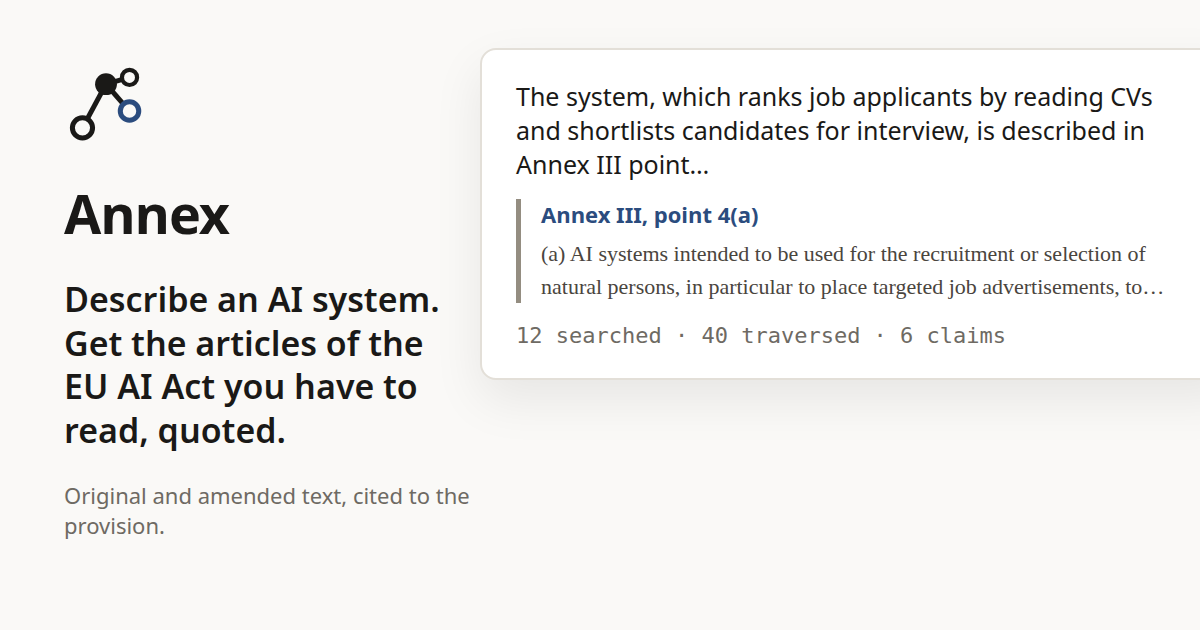
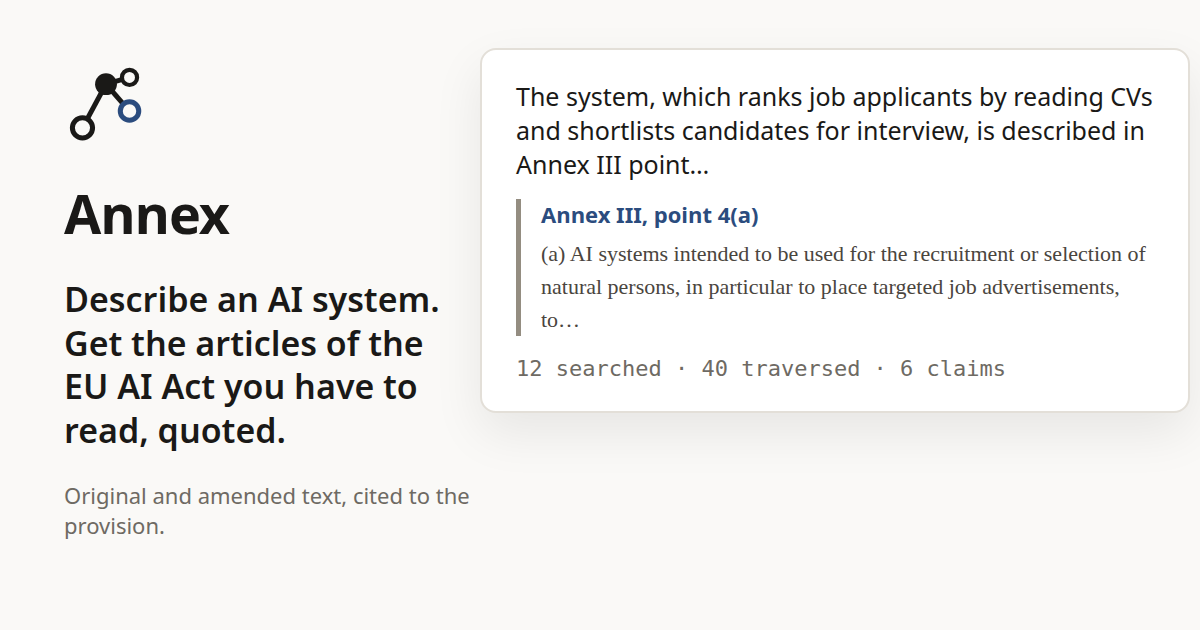
fix(web): narrow arm 3's panel so it fits the card canvas
armThreeHtml laid its right-cell panel out at 760px inside a 470px
plus 1fr grid with 10px of left padding, putting the panel's right
edge at 1240 on the 1200px canvas. The border, box shadow, and
excerpt text clipped against the frame rather than ending at their
own ellipsis. Narrowing the panel to 710px keeps it inside the canvas
with margin to spare. og-image-alt.png is regenerated from the fix;
og-image.png (arm 1) is untouched.

Claude-Session: https://claude.ai/code/session_01PapR95HCLj5TC1vMzaRMzV

diff --git a/web/scripts/generate-social-card.ts b/web/scripts/generate-social-card.ts
@@ -169,7 +169,7 @@ function armThreeHtml(
   const excerptHtml = escapeHtml(cutAtWordBoundary(excerpt, 150))
   const counts = `${fixture.retrieval.searched_ids.length} searched · ${fixture.retrieval.traversed_ids.length} traversed · ${fixture.claims.length} claims`
 
-  return `<style>${BASE_STYLE}</style><div class="card" style="display:grid;grid-template-columns:470px 1fr"><div style="padding:64px 0 0 64px;display:flex;flex-direction:column;gap:28px">${mark(84)}<div style="font-size:54px;font-weight:700;letter-spacing:-.02em">Annex</div><div style="font-size:34px;line-height:1.28;font-weight:600">Describe an AI system. Get the articles of the EU AI Act you have to read, quoted.</div><div style="font-size:22px;color:#6e6a63">Original and amended text, cited to the provision.</div></div><div style="padding:48px 0 0 10px"><div style="background:#fff;border:2px solid #e3dfd8;border-radius:16px;padding:30px 34px;width:760px;box-shadow:0 20px 50px rgba(0,0,0,.08)"><div style="font-size:25px;line-height:1.35">${headline}</div><div style="margin-top:18px;border-left:5px solid #948d81;padding-left:20px"><b style="font-size:22px;color:#2b4c7e">${escapeHtml(label)}</b><div class="serif" style="font-size:22px;line-height:1.5;color:#4a453e;margin-top:8px">${excerptHtml}</div></div><div style="margin-top:20px;font-family:ui-monospace,Menlo,Consolas,monospace;font-size:22px;color:#6e6a63">${counts}</div></div></div></div>`
+  return `<style>${BASE_STYLE}</style><div class="card" style="display:grid;grid-template-columns:470px 1fr"><div style="padding:64px 0 0 64px;display:flex;flex-direction:column;gap:28px">${mark(84)}<div style="font-size:54px;font-weight:700;letter-spacing:-.02em">Annex</div><div style="font-size:34px;line-height:1.28;font-weight:600">Describe an AI system. Get the articles of the EU AI Act you have to read, quoted.</div><div style="font-size:22px;color:#6e6a63">Original and amended text, cited to the provision.</div></div><div style="padding:48px 0 0 10px"><div style="background:#fff;border:2px solid #e3dfd8;border-radius:16px;padding:30px 34px;width:710px;box-shadow:0 20px 50px rgba(0,0,0,.08)"><div style="font-size:25px;line-height:1.35">${headline}</div><div style="margin-top:18px;border-left:5px solid #948d81;padding-left:20px"><b style="font-size:22px;color:#2b4c7e">${escapeHtml(label)}</b><div class="serif" style="font-size:22px;line-height:1.5;color:#4a453e;margin-top:8px">${excerptHtml}</div></div><div style="margin-top:20px;font-family:ui-monospace,Menlo,Consolas,monospace;font-size:22px;color:#6e6a63">${counts}</div></div></div></div>`
 }
 
 async function render(html: string, outPath: string): Promise<void> {

diff --git a/canon/DESIGN.md b/canon/DESIGN.md
@@ -142,4 +142,4 @@ That hardcoding is what O1 in `.canon/review/first-use/operator-pass.md` measure
 
 The pipeline figure that once sat under the three-arm comparison carried a defect of the same shape as O1, measured rather than argued: `web/src/components/pipeline-diagram.tsx` sized its type in SVG viewBox units and scaled the whole figure to the pane's width, so every pixel of width the pane lost shrank the type with it, down to 7.1px at 1280. The rebuilt figure is a vertical rail, one stage a row at full size, matching the layout the operator picked over a plain list and two wrapped rows and the clean line style picked over a hand-drawn one, both recorded under O4 in `.canon/review/first-use/operator-pass.md` and rendered under `.canon/review/evidence/pipeline-figure-layout/` and `pipeline-figure-style/`. Retrieve and Traverse are the two stages the three-arm comparison switches on and off, so their dots draw solid in the accent color against the other three stages' hollow ink-bordered dots, the bracket and its caption read in the accent color too, and the caption that used to sit under the whole figure now reads off that bracket, all read directly off the picked render rather than off its prose summary. Every label and caption is plain HTML text at a fixed pixel size rather than an SVG unit that scales with the viewBox, so it holds an 11px floor at both 1280 and 400, measured off the built page rather than judged by eye. Every stroke and fill reads from the theme, through the theme tokens or `currentColor` the way `traversal-graph.tsx` does, so both themes render from the one source.
 
-The social card is the third mark this section covers, and the hold this entry once carried is over. Pick 15 chose arm 1: the mark and name, the recorded CV-screening description in quotation marks, its claim quoted exactly and cut at a word boundary, and the Annex III point 4(a) excerpt the claim rests on, smallest text at 26px, 13px at half size. `web/scripts/generate-social-card.ts` renders that arm from `web/src/fixtures/q04-cv-screening.consolidated.json` at build time, quoting rather than typing, so a re-capture that changes the claim changes the card the next time the script runs, and it renders arm 3 alongside it as `web/public/og-image-alt.png`, an alternate named nowhere in the page's metadata. `feature-corpus-and-answer-text` merged as `#28`, so `bun run generate:social-card` ran for real against the re-captured fixture: the claim still names Annex III point 4(a), still cites `anx_III`, and the citation still reads `changed: false`, so both cards render the arms the pick chose rather than a placeholder. `web/public/og-image.png` and `web/public/og-image-alt.png` are both committed, at 1200 by 630 and roughly 83 and 89 kilobytes, and `web/e2e/metadata.spec.ts` asserts both resolve over HTTP with a non-zero body. `web/src/app/layout.tsx` still points every consumer at `og-image.png` alone. Nothing automatic keeps either card in step with the next re-capture, and a fixture change that breaks one of the generator's three preconditions fails its own throw rather than the build.
+The social card is the third mark this section covers, and the hold this entry once carried is over. Pick 15 chose arm 1: the mark and name, the recorded CV-screening description in quotation marks, its claim quoted exactly and cut at a word boundary, and the Annex III point 4(a) excerpt the claim rests on, smallest text at 26px, 13px at half size. `web/scripts/generate-social-card.ts` renders that arm from `web/src/fixtures/q04-cv-screening.consolidated.json` at build time, quoting rather than typing, so a re-capture that changes the claim changes the card the next time the script runs, and it renders arm 3 alongside it as `web/public/og-image-alt.png`, an alternate named nowhere in the page's metadata. `feature-corpus-and-answer-text` merged as `#28`, so `bun run generate:social-card` ran for real against the re-captured fixture: the claim still names Annex III point 4(a), still cites `anx_III`, and the citation still reads `changed: false`, so both cards render the arms the pick chose rather than a placeholder. `web/public/og-image.png` and `web/public/og-image-alt.png` are both committed, at 1200 by 630 and roughly 82 and 88 kilobytes, and `web/e2e/metadata.spec.ts` asserts both resolve over HTTP with a non-zero body. Arm 3's panel originally ran 40px past the canvas edge, the width of its right cell carried over unnarrowed from the operator's picked render, clipping the excerpt against the frame rather than at its own ellipsis. `armThreeHtml` narrows that panel from 760px to 710px, which keeps it inside the 1200px canvas with room to spare. `web/src/app/layout.tsx` still points every consumer at `og-image.png` alone. Nothing automatic keeps either card in step with the next re-capture, and a fixture change that breaks one of the generator's three preconditions fails its own throw rather than the build.
